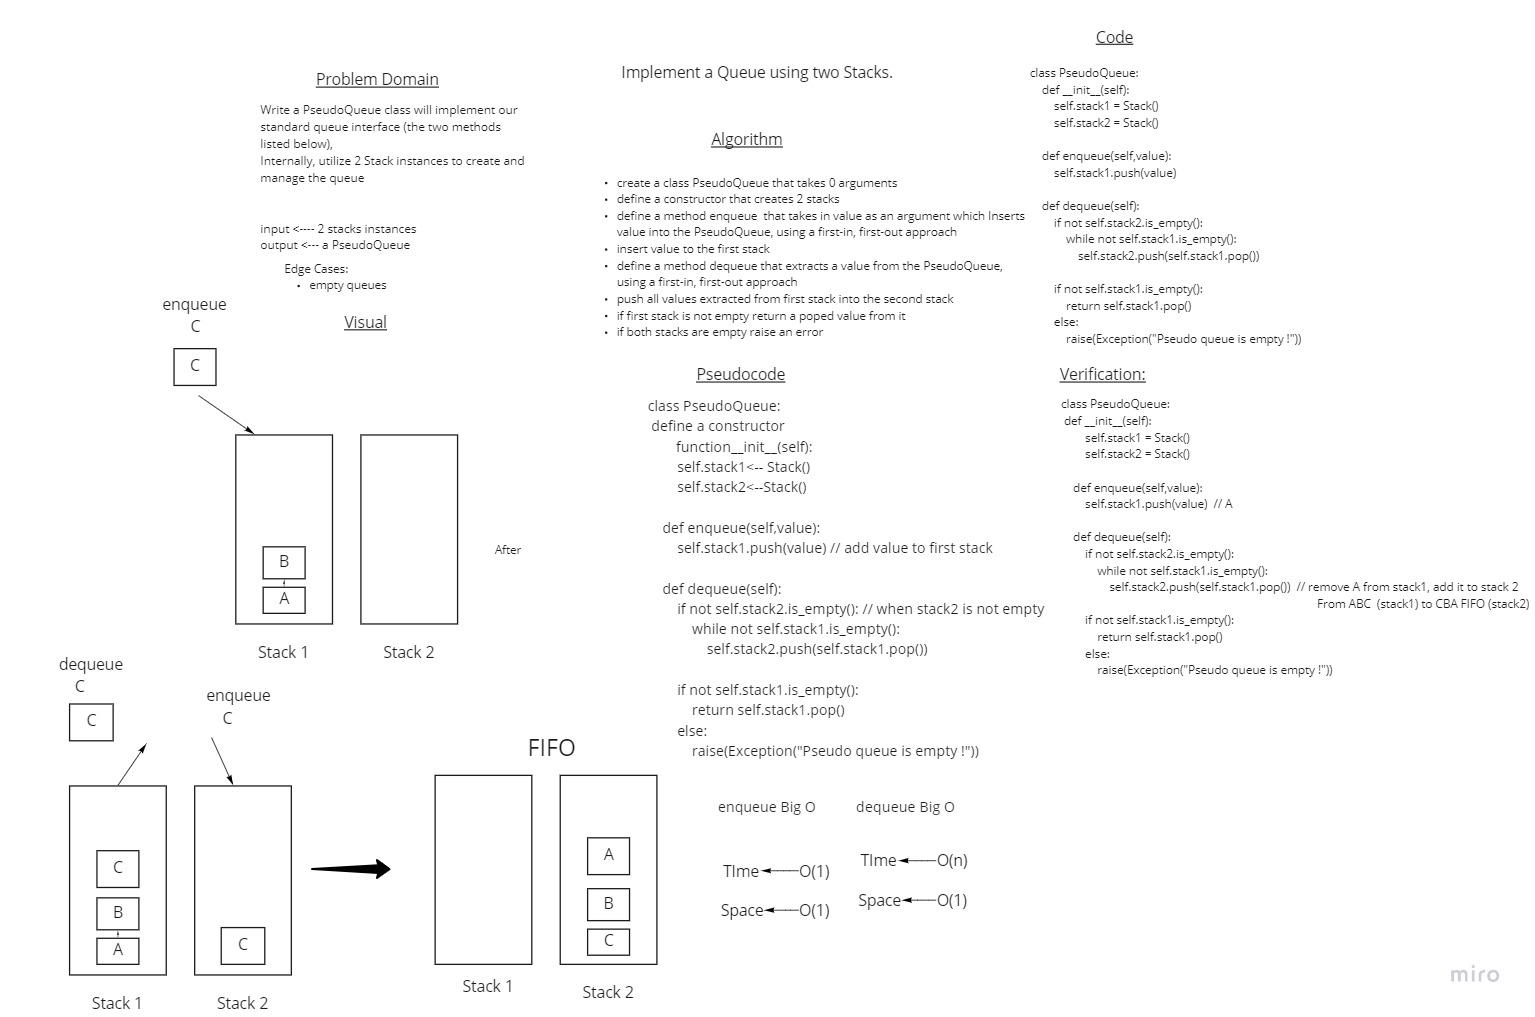
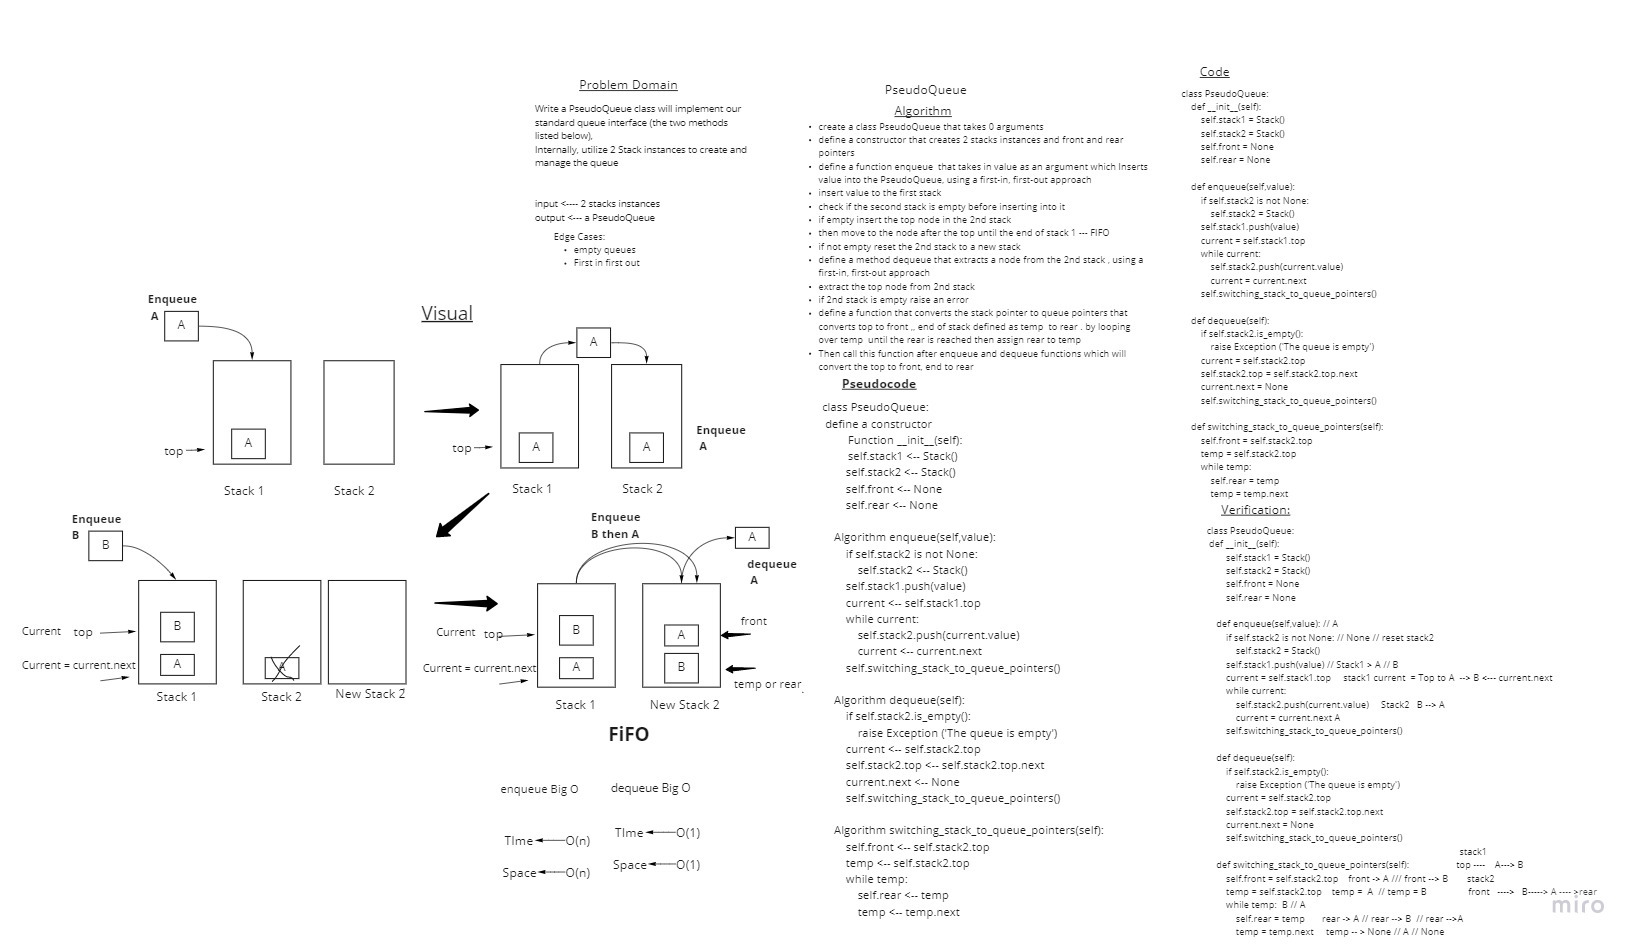
latest fix

diff --git a/data_structures/stack-and-queue/stack_and_queue/stack_queue.py b/data_structures/stack-and-queue/stack_and_queue/stack_queue.py
@@ -130,30 +130,62 @@ class PseudoQueue:
     def __init__(self):
         self.stack1 = Stack()
         self.stack2 = Stack()
+        self.front = None
+        self.rear = None
 
 
     def enqueue(self,value):
         """ 
         Inserts value into the PseudoQueue, using a first-in, first-out approach.
-        """
-        
+        """ 
+
+        if self.stack2 is not None:
+            self.stack2 = Stack()
+
         self.stack1.push(value)
+        current = self.stack1.top
+        while current:
+            self.stack2.push(current.value)
+            current = current.next
+        self.switching_stack_to_queue_pointers()
+
+
+    def peek(self):
+        if self.stack1.is_empty == True:
+            raise Exception ('queue is empty')
+        else:
+            return self.front.value
 
     def dequeue(self):
         """
         Extracts a value from the PseudoQueue, using a first-in first-out approach.
         """
-        
-        if not self.stack2.is_empty():
-            while not self.stack1.is_empty():
-                self.stack2.push(self.stack1.pop())
+        if self.stack2.is_empty():
+            raise Exception ('The queue is empty')
+        current = self.stack2.top
+        self.stack2.top = self.stack2.top.next
+        current.next = None
+        self.switching_stack_to_queue_pointers()
 
-        if not self.stack1.is_empty():
-            return self.stack1.pop()
+    # i had taken this idea from Emad Almajdalawi to solve the stack to queue pointers
+    def switching_stack_to_queue_pointers(self):
+        self.front = self.stack2.top
+        temp = self.stack2.top
+        while temp:
+            self.rear = temp
+            temp = temp.next
+
+    def __str__(self):
+        output = ''
+        if not self.front:
+            return 'The queue is empty'
         else:
-            raise(Exception("Pseudo queue is empty !"))
-
-
+            current = self.front
+            while current:
+                output += f'{current.value} -->'
+                current = current.next
+            output += 'Null'
+            return output
 
 if __name__ == '__main__':
     stack = Stack()
@@ -165,6 +197,7 @@ if __name__ == '__main__':
     queue = PseudoQueue()
     queue.enqueue('Zaid')
     queue.enqueue('Jarrar')
+    queue.dequeue()
 
     # queue.enqueue('Jarrar')
     print(queue)

diff --git a/data_structures/stack-and-queue/tests/test_stack_and_queue.py b/data_structures/stack-and-queue/tests/test_stack_and_queue.py
@@ -104,20 +104,22 @@ def test_queue_empty(queue):
     
 def test_pesudo_enqueue():
     pseudo = PseudoQueue()
-    pseudo.enqueue('Is')
-    assert pseudo.dequeue() == "Is"
+    pseudo.enqueue('1')
+    pseudo.enqueue('2')
+    pseudo.enqueue('3')
+    assert pseudo.peek() == '1'
     
-
+   
 def test_pesudo_dequeue():
     pseudo = PseudoQueue()
-    [pseudo.enqueue(name) for name in ["Zaid", "Jarrar", "99"]]    
+    [pseudo.enqueue(name) for name in ["1", "2", "3"]]    
     pseudo.dequeue() 
-    assert pseudo.dequeue() == 'Jarrar'
+    assert pseudo.peek() == '2'
 
 def test_pesudo_dequeue_empty():
     with pytest.raises(Exception):
-        PseudoQueue().dequeue()   
-
+        pseudo=PseudoQueue()  
+        pseudo.dequeue()
 
 
 

diff --git a/data_structures/stack-and-queue/README.md b/data_structures/stack-and-queue/README.md
@@ -58,7 +58,7 @@ and for the space there is no loops or anythong to increase it, so it is a linea
     peek: takes no arguments and returns the value of the front node, if queue is empty an exception will be raised
     is_empty: takes no arguments and returns True if queue is empty, False otherwise
 
-    PseudoQueue class will implement our standard queue interface (the two methods listed below),
+    PseudoQueue class will implement our standard queue interface (the two methods listed below)
     Internally, utilize 2 Stack instances to create and manage the queue
     enqueue method:  Inserts value into the PseudoQueue, using a first-in, first-out approach.
     dequeue method:  Extracts a value from the PseudoQueue, using a first-in first-out approach.
